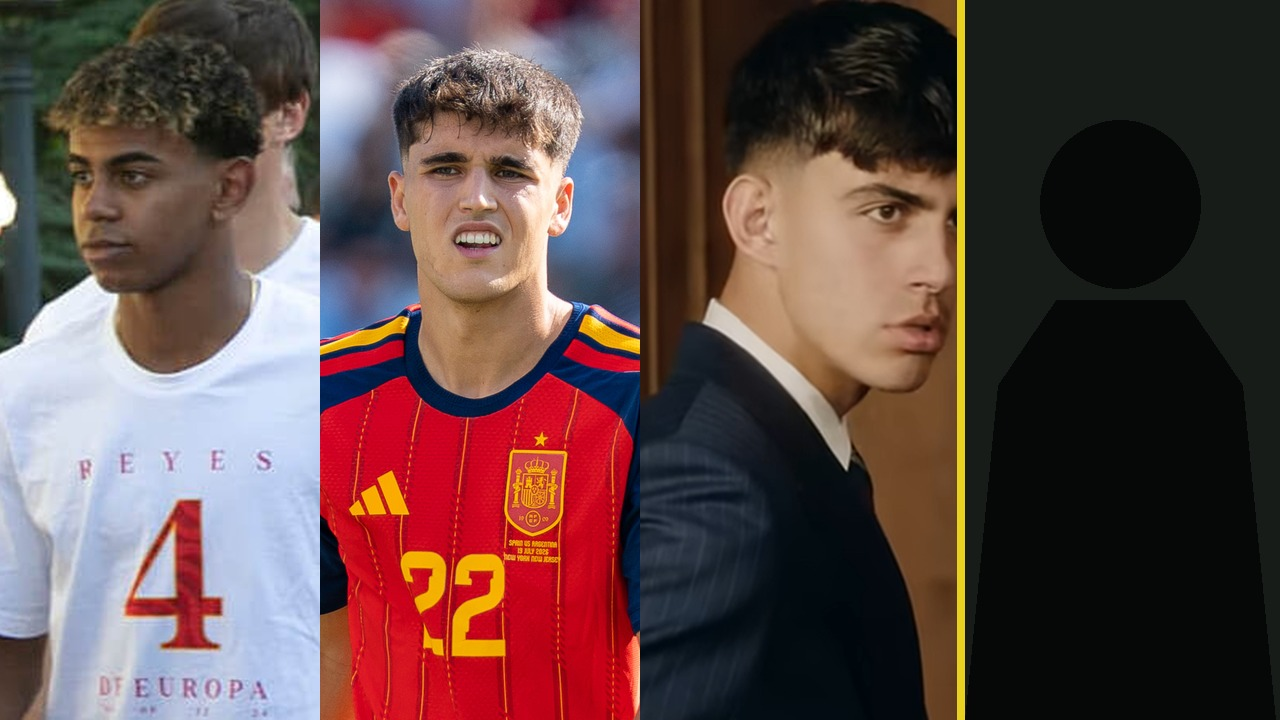
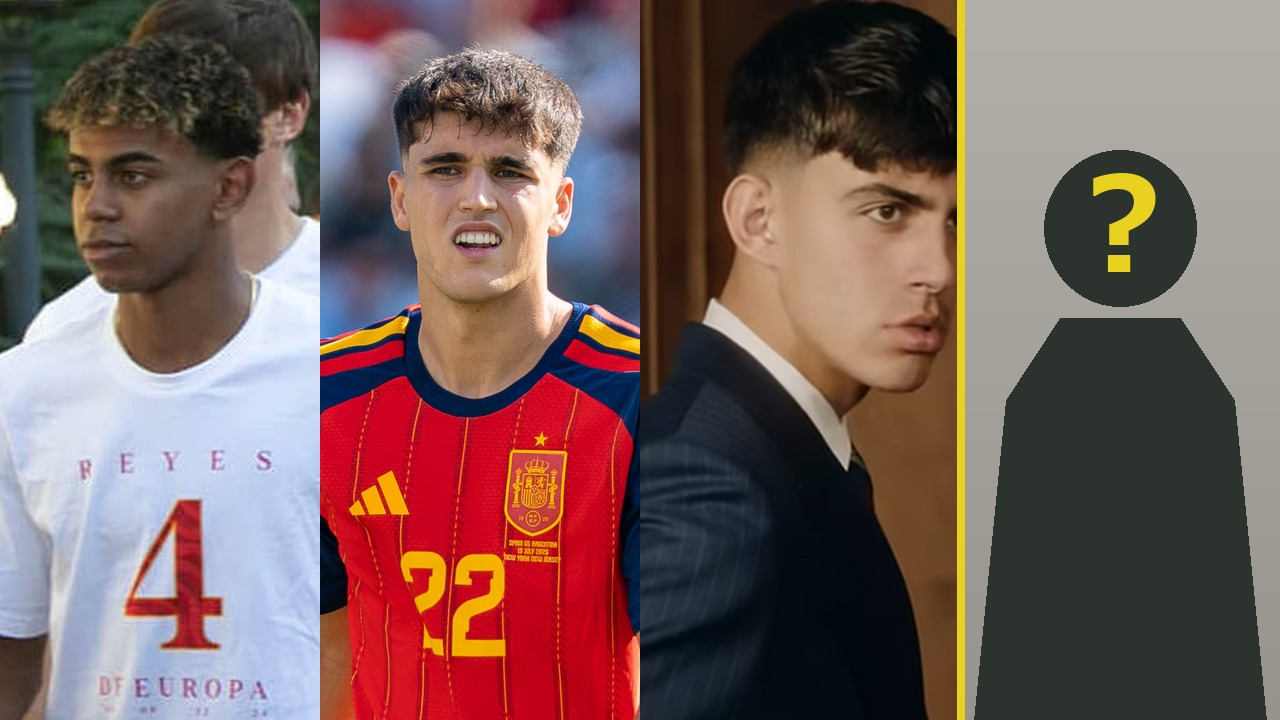
サムネの黒い面積を減らし、点検を足す
縦長の写真を右に置くと、左が塗りつぶしの濃紺だった。実測すると顔の段の
72%が黒で、一覧に並べると沈んで見えた（ユーザー指摘）。

- 左に同じ写真をぼかして暗くしたものを敷く（別の写真は持ってこないので
  権利の扱いは変わらない）。実測で 72% → 37% に下がった
- review に「サムネの黒」を追加。顔の段の黒が55%を超えたら知らせる
  目で見て気づいたが、機械は何も言わなかった

Changed region(s): [[0.75, 0.0, 1.0, 1.0]]

diff --git a/projects/youtube-video-creation/src/review.py b/projects/youtube-video-creation/src/review.py
@@ -85,6 +85,7 @@ def inspect(script: Script, out_dir: Path, duration: float | None = None) -> lis
         findings.append(check_title_hook(script))
         findings.append(check_title_subject(script))
     findings.append(_thumbnail_face(script))
+    findings.append(check_thumbnail_dark(out_dir))
     findings.append(_card_rule(script))
     findings.append(_photo_credits(script, out_dir))
     findings.append(check_post_sources(script))
@@ -242,6 +243,41 @@ def _card_rule(script: Script) -> Finding:
         worst = max(long_gaps)
         parts.append(f"見た目が{worst[0]:.0f}秒変わりません（{worst[1][:16]}）")
     return Finding(True, "カードの基準", "／".join(parts))
+
+
+# サムネの上半分（顔が出る段）が黒すぎないか。**一覧に並べると沈む**
+DARK_LEVEL = 42        # これより暗い画素を「黒」と数える
+DARK_SHARE = 0.55      # 顔の段のうち黒がこの割合を超えたら知らせる
+
+
+def check_thumbnail_dark(build_dir: Path) -> Finding:
+    """サムネの黒い面積を見る（2026-09-08 ユーザー指摘）。
+
+    縦長の写真を右に置くと、左が塗りつぶしの濃紺になっていた。実測すると
+    **顔の段の72%が黒**で、一覧で沈んで見えた。いまは同じ写真をぼかして
+    敷いているが、**気づいたのは目で見たからで、機械は何も言わなかった。**
+    """
+    path = build_dir / "thumbnail.png"
+    if not path.exists():
+        return Finding(True, "サムネの黒", "サムネがまだありません")
+    try:
+        from PIL import Image
+    except ImportError:
+        return Finding(True, "サムネの黒", "Pillow がありません")
+    try:
+        with Image.open(path) as im:
+            small = im.convert("L").resize((320, 180))
+    except Exception:
+        # テストの仮ファイルなど、画像として読めないもの。**ここで止めない**
+        return Finding(True, "サムネの黒", "サムネを読めませんでした")
+    top = list(small.crop((0, 0, 320, 108)).getdata())
+    share = sum(1 for v in top if v < DARK_LEVEL) / len(top)
+    if share > DARK_SHARE:
+        return Finding(
+            False, "サムネの黒",
+            f"顔の段の{share * 100:.0f}%が黒です（{DARK_SHARE * 100:.0f}%まで）。"
+            "写真を大きくするか、下地を敷いてください")
+    return Finding(True, "サムネの黒", f"顔の段の黒は{share * 100:.0f}%です")
 
 
 def _thumbnail_face(script: Script) -> Finding:

diff --git a/projects/youtube-video-creation/src/thumbnail.py b/projects/youtube-video-creation/src/thumbnail.py
@@ -257,7 +257,7 @@ def _band_thumbnail(
     # **正方形に近い写真も右に置く。**全面に敷くと顔が帯に隠れる
     portrait = _is_portrait(background, ratio=0.95)
     if portrait:
-        canvas = Image.new("RGBA", SIZE, (14, 20, 32, 255))
+        canvas = _blur_bed(background)
         _paste_side(canvas, background)
     else:
         # **帯が下の4割を覆うので、顔を上に寄せる。**真ん中で切ると、
@@ -346,6 +346,36 @@ def _is_portrait(background: str | None, ratio: float = 1.1) -> bool:
             return image.height > image.width * ratio
     except OSError:
         return False
+
+
+def _blur_bed(background: str | None) -> Image.Image:
+    """縦長の写真を右に置くとき、**左に敷く下地**を作る。
+
+    2026-09-08 まで、左は塗りつぶしの濃紺だった。実測すると顔の段の
+    **72%が真っ黒**で、一覧に並べると沈んで見えた（ユーザー指摘）。
+    同じ写真を大きく引き伸ばしてぼかし、暗くして敷く。
+    別の写真を持ってこないので、権利の扱いは変わらない。
+    """
+    from PIL import ImageEnhance, ImageFilter
+
+    base = Image.new("RGBA", SIZE, (14, 20, 32, 255))
+    path = _resolve(background or "")
+    if not path.exists():
+        return base
+    with Image.open(path) as source:
+        photo = source.convert("RGB")
+    # 画面を埋める大きさまで拡大してから、真ん中を切る
+    scale = max(SIZE[0] / photo.width, SIZE[1] / photo.height) * 1.35
+    photo = photo.resize((max(1, int(photo.width * scale)),
+                          max(1, int(photo.height * scale))), Image.LANCZOS)
+    left = max(0, (photo.width - SIZE[0]) // 2)
+    top = max(0, (photo.height - SIZE[1]) // 3)
+    photo = photo.crop((left, top, left + SIZE[0], top + SIZE[1]))
+    photo = photo.filter(ImageFilter.GaussianBlur(28))
+    photo = ImageEnhance.Brightness(photo).enhance(0.60)
+    photo = ImageEnhance.Color(photo).enhance(0.85)
+    base.alpha_composite(photo.convert("RGBA"))
+    return base
 
 
 def _paste_side(canvas: Image.Image, background: str | None) -> None:

diff --git a/projects/youtube-video-creation/tests/test_review.py b/projects/youtube-video-creation/tests/test_review.py
@@ -705,3 +705,22 @@ def test_言い切りのタイトルは止める():
     script = parse_script(nl.join(["---", "title: レスターが3部リーグで18位に転落した",
                                    "---", "", "## 本編", "", "キャスター: 本文。", ""]))
     assert not check_title_hook(script).ok
+
+
+def test_黒いサムネを止める(tmp_path):
+    """**顔の段の72%が黒**だった（2026-09-08 ユーザー指摘）。機械は何も言わなかった。"""
+    from PIL import Image
+
+    from src.review import check_thumbnail_dark
+
+    Image.new("RGB", (1280, 720), (8, 10, 12)).save(tmp_path / "thumbnail.png")
+    assert not check_thumbnail_dark(tmp_path).ok
+
+
+def test_明るいサムネは通す(tmp_path):
+    from PIL import Image
+
+    from src.review import check_thumbnail_dark
+
+    Image.new("RGB", (1280, 720), (150, 160, 150)).save(tmp_path / "thumbnail.png")
+    assert check_thumbnail_dark(tmp_path).ok
